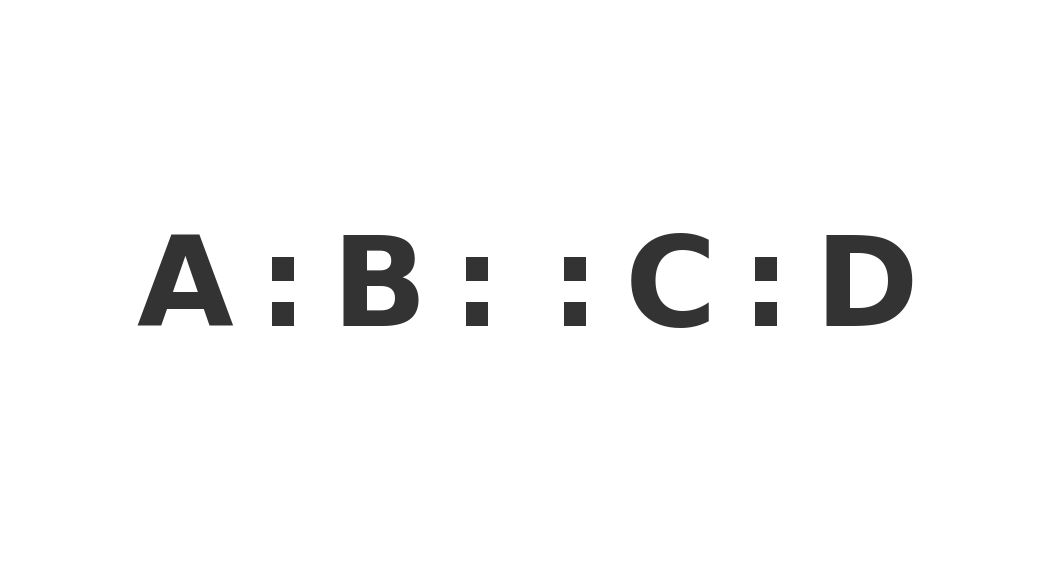
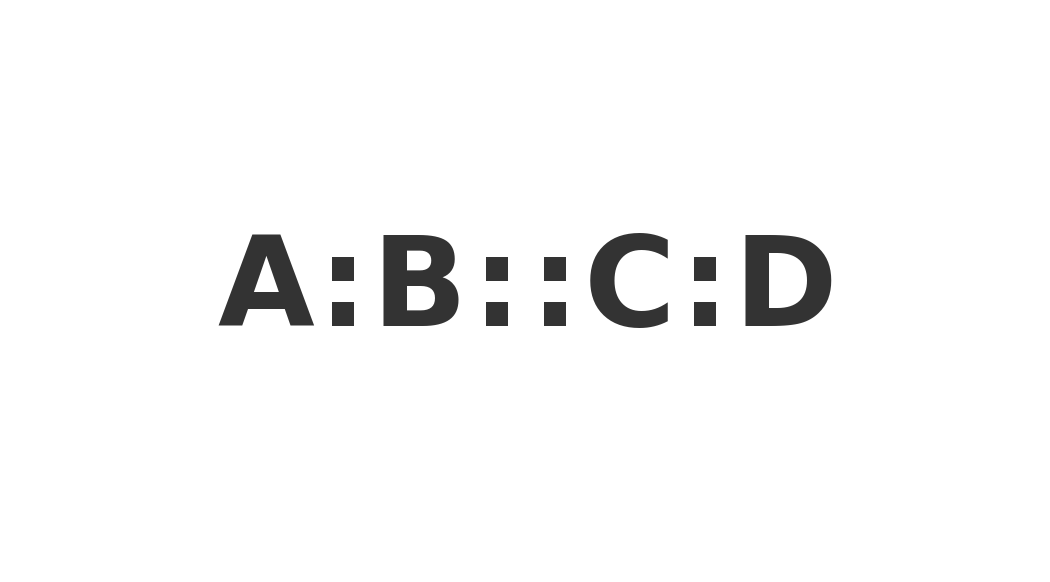
Last one

Changed region(s): [[0.5181, 0.4021, 0.8838, 0.5876], [0.1219, 0.4021, 0.4876, 0.5876]]

diff --git a/website/assets/bitsbipsbricks/Colon-Analogy-Notation/README.md b/website/assets/bitsbipsbricks/Colon-Analogy-Notation/README.md
@@ -1,0 +1,21 @@
+##
+
+[Colon Analogy Notation](/website/assets/bitsbipsbricks/Colon-Analogy-Notation/colon_analogy_notation.png) was generated by [ChatGPT 4o](https://chatgpt.com/c/671d0e46-dc70-8013-add9-e675d2d7c530) on 2024-10-26 using this python code
+
+```python
+# Tighten spacing even more by removing any extra space between colons and characters
+latex_text_max_tight = r"$\mathbf{A\!:\!B\!:\!\!:\!C\!:\!D}$"
+
+# Render the LaTeX equation with maximally reduced spacing
+fig, ax = plt.subplots(figsize=(4, 2))  # Moderate dimensions to keep image centered
+ax.text(0.5, 0.5, latex_text_max_tight, fontsize=30, ha='center', va='center')
+ax.axis('off')
+
+# Save the image with maximally tight spacing
+output_path_max_tight_spacing = "/mnt/data/colon_analogy_notation_max_tight_spacing.png"
+plt.savefig(output_path_max_tight_spacing, bbox_inches='tight', pad_inches=0.2, dpi=300)
+plt.close(fig)
+
+output_path_max_tight_spacing
+
+```
